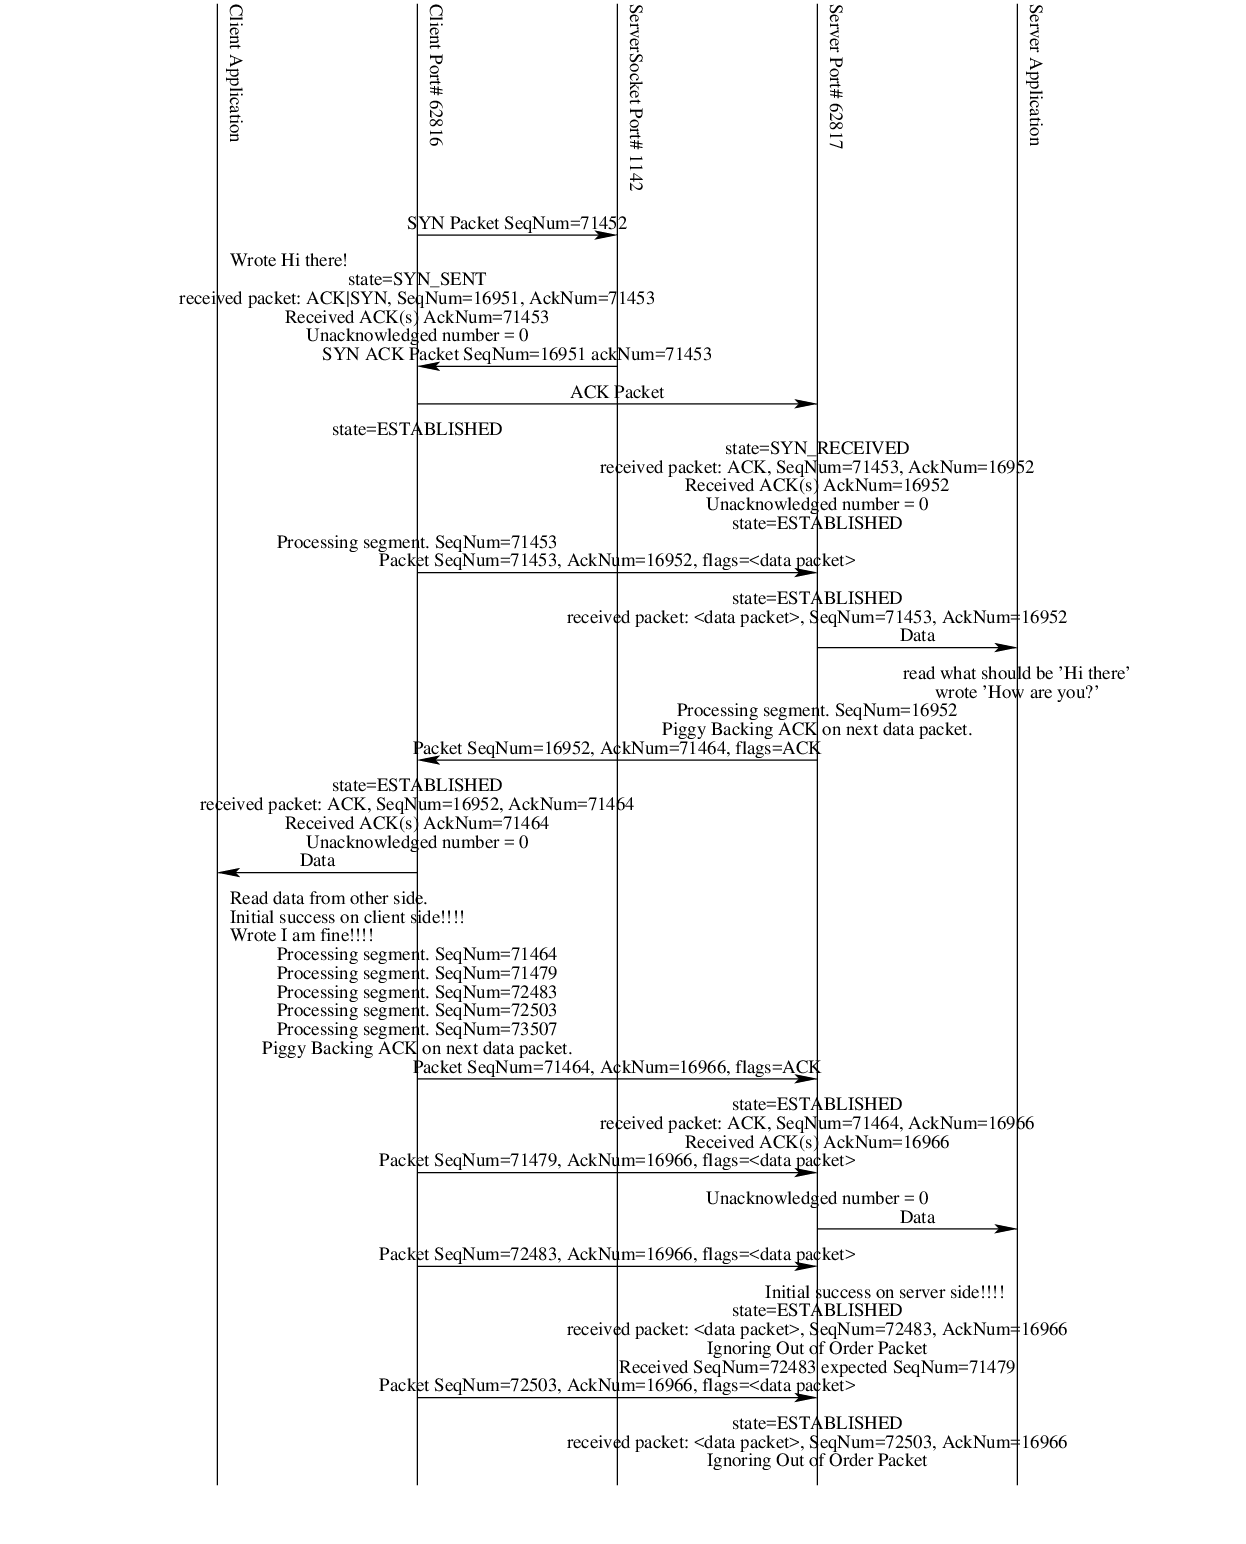
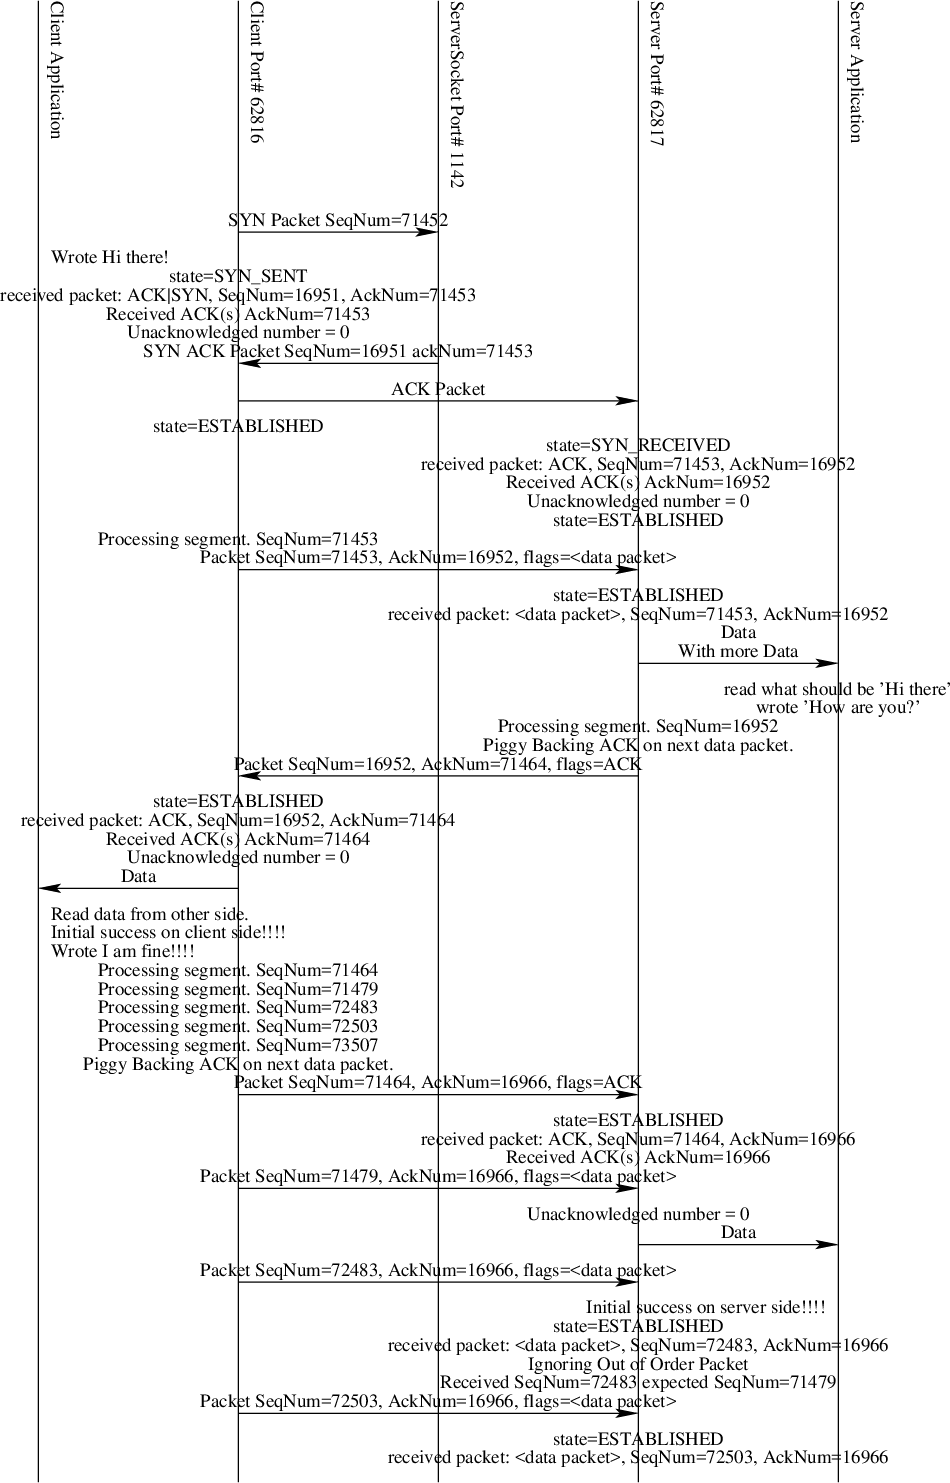
fixup docs

diff --git a/_build/html/searchindex.js b/_build/html/searchindex.js
@@ -1,1 +1,1 @@
-Search.setIndex({docnames:["index"],envversion:{"sphinx.domains.c":1,"sphinx.domains.changeset":1,"sphinx.domains.cpp":1,"sphinx.domains.javascript":1,"sphinx.domains.math":2,"sphinx.domains.python":1,"sphinx.domains.rst":1,"sphinx.domains.std":1,sphinx:54},filenames:["index.rst"],objects:{},objnames:{},objtypes:{},terms:{Then:0,a62816:0,a62817:0,abov:0,ack:0,acknum:0,across:0,add:0,addit:0,adher:0,advanc:0,after:0,again:0,allow:0,ani:0,anywher:0,api:[],appear:0,applic:0,arrow:0,associ:0,author:0,automat:0,back:0,been:0,begin:0,being:0,below:0,brew:0,can:0,care:0,center:0,cid1:0,cid2:0,cid:0,client:0,closur:0,code:0,com:0,command:[],commerci:0,compil:0,complex:0,compon:0,connect:0,consist:0,contain:0,control:0,convers:0,convert:0,copi:0,cpp:0,ctext:0,data:0,degre:0,describ:0,descript:0,determin:0,determinist:0,diagram:[],dimens:0,directli:0,directori:0,domain:0,don:0,doubl:0,down:0,draw:0,dsl:0,each:0,educ:0,either:0,elimin:0,end:0,enter:0,environ:0,error:0,establish:0,exampl:0,execut:0,exit:0,expect:0,fig:0,figur:0,file:[],fin:0,fin_wait_1:0,fin_wait_2:0,fine:0,finish:0,first:0,flag:0,flow:0,format:0,free:0,from:0,full:0,gener:0,ghostscript:0,github:0,given:0,has:0,have:0,here:0,how:0,howev:0,http:0,identifi:0,ignor:0,imagemagick:0,inch:0,includ:0,incorpor:0,independ:0,index:0,inform:0,initi:0,inscrib:0,insignific:0,inspect:0,instal:0,interact:0,isol:0,just:0,justifi:0,kent:0,kentdle:0,kind:0,known:0,last_ack:0,later:0,left:0,licens:0,like:0,line:0,linux:0,ltext:0,mac:0,manag:0,messag:0,messsag:0,modul:0,much:0,multipl:0,must:0,name:0,need:0,next:0,non:0,now:0,number:0,obtain:0,onc:0,onli:0,open:0,order:0,origin:0,other:0,out:0,output:0,p1142:0,p62816:0,p62817:0,packag:0,packet:0,page:0,parallel:0,part:0,path:0,pdf:0,perform:0,pictori:0,piggi:0,place:0,png:0,port:0,posit:0,pretti:0,process:0,produc:0,product:0,program:0,purpos:0,quit:0,quot:0,reach:0,read:0,reader:0,readm:0,receiv:0,refer:0,repres:0,request:0,resend:0,rest:0,result:0,right:0,rtext:0,run:[],same:0,search:0,section:0,see:0,seen:0,segment:0,semicolon:0,send:0,sender:0,sent:0,seqnum:0,seri:0,server:0,serversocket:0,should:0,show:0,side:0,simpl:0,size:0,softwar:0,some:0,sourc:0,specfic:0,specif:0,split:0,srms2pdf:0,srms2png:0,srmsexampl:0,srmsexample1:0,srmsexample2:0,srmsexample3:0,srmsexample4:0,srmsexample5:0,srmsexample6:0,start:0,state:0,stream:0,success:0,syn:0,syn_receiv:0,syn_sent:0,system:0,termin:0,text:0,thi:0,thread:0,through:0,time_wait:0,timer:0,tool:[],top:0,transfig:0,transform:0,transit:0,trigger:0,two:0,txt:0,unacknowledg:0,unix:0,use:0,used:0,useful:0,using:0,util:0,vertic:0,warn:0,wasn:0,well:0,what:0,when:0,where:0,which:0,window:0,wish:0,within:0,without:0,write:0,written:0,wrote:0,you:0,your:0},titles:["Welcome to SRMStoFigs!"],titleterms:{The:0,command:0,complet:0,depend:0,diagram:0,document:[],download:0,fig:[],file:0,indic:0,input:0,languag:0,run:0,sampl:0,srm:[],srmstofig:0,tabl:0,tool:0,welcom:0}})
+Search.setIndex({docnames:["index"],envversion:{"sphinx.domains.c":1,"sphinx.domains.changeset":1,"sphinx.domains.cpp":1,"sphinx.domains.javascript":1,"sphinx.domains.math":2,"sphinx.domains.python":1,"sphinx.domains.rst":1,"sphinx.domains.std":1,sphinx:54},filenames:["index.rst"],objects:{},objnames:{},objtypes:{},terms:{But:0,Then:0,With:0,a62816:0,a62817:0,abov:0,ack:0,acknum:0,across:0,act:0,add:0,addit:0,adher:0,advanc:0,after:0,again:0,allow:0,also:0,ani:0,anywher:0,api:[],appear:0,applic:0,arrow:0,associ:0,author:0,automat:0,back:0,been:0,begin:0,being:0,below:0,brew:0,can:0,care:0,center:0,cid1:0,cid2:0,cid:0,client:0,closur:0,code:0,com:0,command:[],commerci:0,compil:0,complex:0,compon:0,connect:0,consist:0,contain:0,control:0,convers:0,convert:0,copi:0,cpp:0,ctext:0,data:0,degre:0,describ:0,descript:0,determin:0,determinist:0,diagram:[],dimens:0,directli:0,directori:0,domain:0,don:0,doubl:0,down:0,draw:0,drawn:0,dsl:0,each:0,educ:0,either:0,elimin:0,end:0,enter:0,environ:0,error:0,establish:0,exampl:0,execut:0,exit:0,expect:0,fig:0,figur:0,file:[],fin:0,fin_wait_1:0,fin_wait_2:0,fine:0,finish:0,first:0,flag:0,flow:0,format:0,free:0,from:0,full:0,gcc:0,gener:0,ghostscript:0,github:0,given:0,has:0,have:0,here:0,how:0,howev:0,http:0,identifi:0,ignor:0,imagemagick:0,inch:0,includ:0,incorpor:0,independ:0,index:0,inform:0,initi:0,inscrib:0,insignific:0,inspect:0,instal:0,interact:0,isol:0,just:0,justifi:0,kent:0,kentdle:0,kind:0,known:0,last_ack:0,later:0,left:0,licens:0,like:0,line:0,linux:0,ltext:0,mac:0,manag:0,messag:0,messsag:0,modul:0,more:0,much:0,multipl:0,must:0,name:0,need:0,next:0,non:0,now:0,number:0,obtain:0,onc:0,onli:0,open:0,order:0,origin:0,other:0,out:0,output:0,p1142:0,p62816:0,p62817:0,packag:0,packet:0,page:0,parallel:0,part:0,path:0,pdf:0,perform:0,pictori:0,piggi:0,place:0,plu:0,png:0,port:0,posit:0,pretti:0,process:0,produc:0,product:0,program:0,purpos:0,quit:0,quot:0,reach:0,read:0,reader:0,readm:0,receiv:0,refer:0,repres:0,request:0,resend:0,rest:0,result:0,right:0,rtext:0,run:[],same:0,search:0,section:0,see:0,seen:0,segment:0,semicolon:0,send:0,sender:0,sent:0,seqnum:0,seri:0,server:0,serversocket:0,should:0,show:0,side:0,sign:0,simpl:0,size:0,softwar:0,some:0,sourc:0,specfic:0,specif:0,split:0,srms2pdf:0,srms2png:0,srmsexampl:0,srmsexample1:0,srmsexample2:0,srmsexample3:0,srmsexample4:0,srmsexample5:0,srmsexample6:0,start:0,state:0,stream:0,success:0,suppress:0,syn:0,syn_receiv:0,syn_sent:0,system:0,termin:0,text:0,thi:0,thread:0,through:0,time_wait:0,timer:0,tool:[],top:0,transfig:0,transform:0,transit:0,trigger:0,two:0,txt:0,unacknowledg:0,unix:0,use:0,used:0,useful:0,using:0,util:0,vertic:0,wai:0,warn:0,wasn:0,well:0,what:0,when:0,where:0,which:0,window:0,wish:0,within:0,without:0,write:0,written:0,wrote:0,you:0,your:0},titles:["Welcome to SRMStoFigs!"],titleterms:{The:0,command:0,complet:0,depend:0,diagram:0,document:[],download:0,fig:[],file:0,indic:0,input:0,languag:0,run:0,sampl:0,srm:[],srmstofig:0,tabl:0,tool:0,welcom:0}})

diff --git a/_build/html/index.html b/_build/html/index.html
@@ -43,7 +43,7 @@
 <p>This tool is free to use for educational and commercial purposes. If you wish to incorporate this code, in full or in part, into a commercial product then you must obtain a license from the author.</p>
 <div class="section" id="downloading-and-dependencies">
 <h2>Downloading and Dependencies<a class="headerlink" href="#downloading-and-dependencies" title="Permalink to this headline">¶</a></h2>
-<p>You can down the tool from <a class="reference external" href="http://github.com/kentdlee/SRMStoFigs">http://github.com/kentdlee/SRMStoFigs</a>. Once downloaded you’ll have to compile the source file. See the srmstofigs.cpp file for the compile command. You need to have a C++ compiler installed (like g++) to compile the code. It should compile with no warnings or errors.</p>
+<p>You can down the tool from <a class="reference external" href="http://github.com/kentdlee/SRMStoFigs">http://github.com/kentdlee/SRMStoFigs</a>. Once downloaded you’ll have to compile the source file. See the srmstofigs.c file for the compile command. You need to have a C compiler installed (like gcc) to compile the code. It should compile with no warnings or errors.</p>
 <p>Either place the directory containing the executables in your path or copy the executables to a directory in your path so you can run the program from anywhere.</p>
 <p>To convert fig files to other formats you need to have additional tools installed. On a Mac OS X system you can use <a class="reference external" href="https://brew.sh/">Brew</a> to install <em>imagemagick</em>, <em>transfig</em>, and <em>gs</em> (i.e. ghostscript). If you are running on Linux then you can use your package manager to install these two packages. If you are running Windows you will need some kind of Unix environment installed to compile and run the dependent packages.</p>
 </div>
@@ -117,6 +117,8 @@ automatically generated to show a specfic run/interaction of the code.</p>
 <dt>
 <code class="descname">CID1 CID2 &quot;Text Describing Message&quot;</code></dt>
 <dd><p>Draw an arrow from component <em>CID1</em> to component <em>CID2</em> showing the flow of information or control with the text inscribed just above the arrow.</p>
+<p>A plus sign (i.e. +) acts like a semicolon. It advances drawing to the next line. But it also suppresses the arrow
+from being drawn in a message. In this way, text can be centered on an arrow, but split into multiple lines.</p>
 </dd></dl>
 
 <dl class="function">
@@ -174,7 +176,8 @@ ctext@ p62816 &quot;Processing segment. SeqNum=71453&quot;;
 p62816 p62817 &quot;Packet SeqNum=71453, AckNum=16952, flags=&lt;data packet&gt;&quot;;
 ctext@ p62817 &quot;state=ESTABLISHED&quot;;
 ctext@ p62817 &quot;received packet: &lt;data packet&gt;, SeqNum=71453, AckNum=16952&quot;;
-p62817 a62817 &quot;Data&quot;;
+p62817 a62817 &quot;Data&quot;+
+p62817 a62817 &quot;With more Data&quot;;
 ctext@ a62817 &quot;read what should be &#39;Hi there&#39;&quot;;
 ctext@ a62817 &quot;wrote &#39;How are you?&#39;&quot;;
 ctext@ p62817 &quot;Processing segment. SeqNum=16952&quot;;

diff --git a/index.rst b/index.rst
@@ -19,7 +19,7 @@ This tool is free to use for educational and commercial purposes. If you wish to
 Downloading and Dependencies
 -------------------------------
 
-You can down the tool from http://github.com/kentdlee/SRMStoFigs. Once downloaded you'll have to compile the source file. See the srmstofigs.cpp file for the compile command. You need to have a C++ compiler installed (like g++) to compile the code. It should compile with no warnings or errors.
+You can down the tool from http://github.com/kentdlee/SRMStoFigs. Once downloaded you'll have to compile the source file. See the srmstofigs.c file for the compile command. You need to have a C compiler installed (like gcc) to compile the code. It should compile with no warnings or errors.
 
 Either place the directory containing the executables in your path or copy the executables to a directory in your path so you can run the program from anywhere.
 
@@ -103,6 +103,9 @@ within the figure. Without a semicolon, multiple commands will write to the same
 
     Draw an arrow from component *CID1* to component *CID2* showing the flow of information or control with the text inscribed just above the arrow.
 
+    A plus sign (i.e. +) acts like a semicolon. It advances drawing to the next line. But it also suppresses the arrow
+    from being drawn in a message. In this way, text can be centered on an arrow, but split into multiple lines.
+
 .. function:: isolate CID
 
     Perform a transitive closure on messsages sent to and from the component *CID* with the diagram. Eliminate any components that don't interact with *CID* either directly or through the transitive closure to *CID*.
@@ -154,7 +157,8 @@ Here is the complete sample input file for SRMStoFigs.
     p62816 p62817 "Packet SeqNum=71453, AckNum=16952, flags=<data packet>";
     ctext@ p62817 "state=ESTABLISHED";
     ctext@ p62817 "received packet: <data packet>, SeqNum=71453, AckNum=16952";
-    p62817 a62817 "Data";
+    p62817 a62817 "Data"+
+    p62817 a62817 "With more Data";
     ctext@ a62817 "read what should be 'Hi there'";
     ctext@ a62817 "wrote 'How are you?'";
     ctext@ p62817 "Processing segment. SeqNum=16952";
